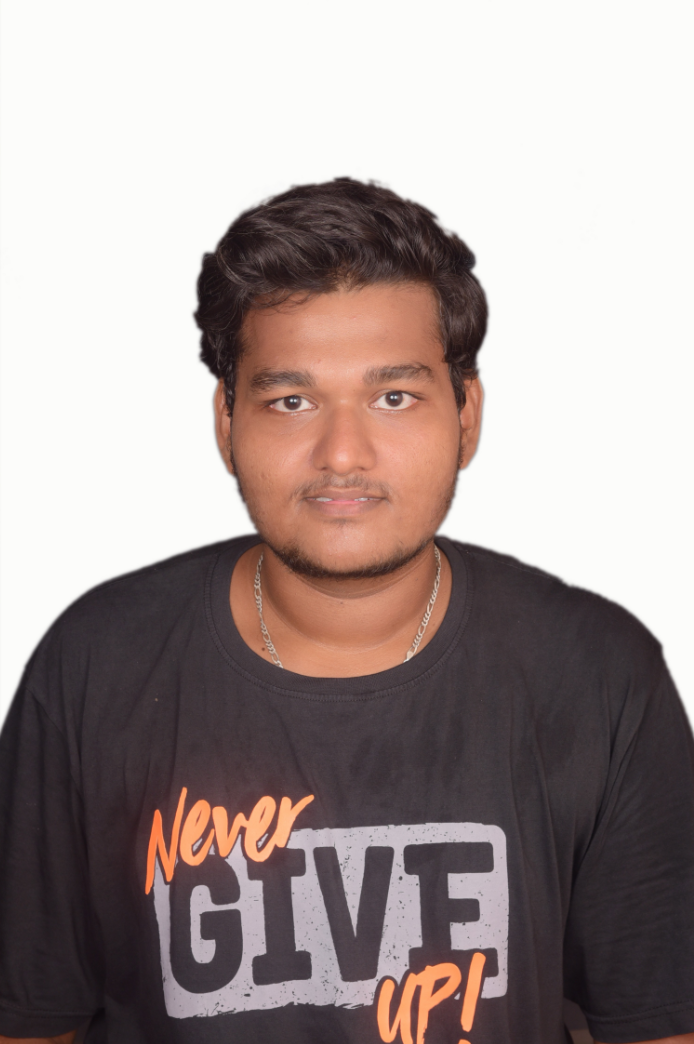
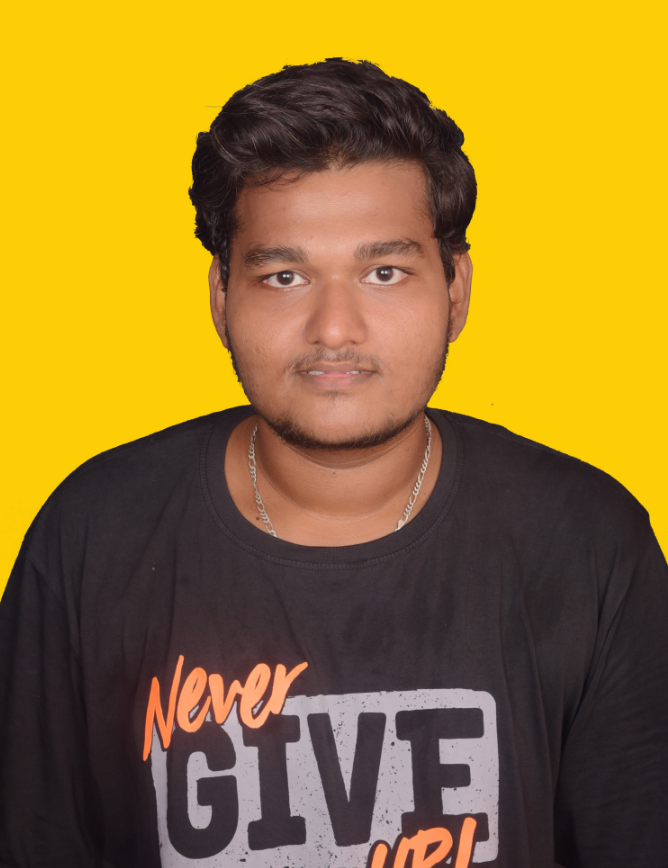
done with intro component

diff --git a/src/components/intro/Intro.css b/src/components/intro/Intro.css
@@ -1,0 +1,98 @@
+.i {
+  display: flex;
+  height: 100vh;
+}
+.i-right {
+  flex: 1;
+  position: relative;
+  display: flex;
+  align-items: center;
+  justify-content: center;
+}
+.i-left {
+  flex: 1;
+  display: flex;
+  align-items: center;
+  justify-content: center;
+}
+.i-left-wrapper {
+  padding: 3rem;
+  height: 50%;
+  display: flex;
+  flex-direction: column;
+  justify-content: space-between;
+}
+.i-name {
+  font-size: 4rem;
+}
+.i-intro {
+  font-size: 2rem;
+  font-weight: 300;
+}
+.i-title-wrapper {
+  height: 100%;
+  animation: move 10s ease-in-out infinite alternate;
+}
+@keyframes move {
+  33% {
+    transform: translateY(-50px);
+  }
+  66% {
+    transform: translateY(-100px);
+  }
+  100% {
+    transform: translateY(-150px);
+  }
+}
+.i-title {
+  height: 3rem;
+  overflow: hidden;
+}
+.i-title-item {
+  height: 3rem;
+  font-size: 2.2rem;
+  font-weight: 900;
+  color: #ffca28;
+  display: flex;
+  align-items: center;
+}
+.i-img {
+  width: 60%;
+  height: 70%;
+  border-radius: 50%;
+  object-fit: fill;
+  position: absolute;
+}
+.i-bg {
+  width: 100%;
+  height: 100%;
+  clip-path: polygon(100% 0%, 100% 50%, 100% 100%, 50% 100%, 0% 50%, 56% 0);
+  background-color: #fdce06;
+}
+.scroll {
+  position: absolute;
+  left: 1rem;
+  bottom: 0;
+  animation: MoveUpDown 1s linear infinite;
+}
+.scroll p {
+  width: max-content;
+  position: absolute;
+  left: -2.4rem;
+  bottom: 3.5rem;
+  transform: rotate(90deg);
+}
+@keyframes MoveUpDown {
+  0%,
+  100% {
+    bottom: 0;
+  }
+
+  50% {
+    bottom: 20px;
+  }
+}
+.i-description {
+  font-size: 1rem;
+  color: grey;
+}

diff --git a/src/components/intro/Intro.jsx b/src/components/intro/Intro.jsx
@@ -1,0 +1,41 @@
+import React from "react";
+import ME from "../../img/me.png";
+import "./Intro.css";
+
+const Intro = () => {
+  return (
+    <div className="i">
+      <div className="i-left">
+        <div className="i-left-wrapper">
+          <h2 className="i-intro">Hello, my name is</h2>
+          <h1 className="i-name">Vishal Suvarna</h1>
+          <div className="i-title">
+            <div className="i-title-wrapper">
+              <div className="i-title-item">Self Taught</div>
+              <div className="i-title-item">Web Developer</div>
+              <div className="i-title-item">FrontEnd Developer</div>
+              <div className="i-title-item">Geek Enthusiast</div>
+            </div>
+          </div>
+          <div className="i-description">
+            A hardworking and dedicated team player passionate about
+            implementing and launching new projects. Ability to translate
+            business requirements into technical solutions. Looking to start my
+            career as an entry-level Front-End Developer with a firm driven by
+            technology.
+          </div>
+        </div>
+        <div className="scroll">
+          <p>Scroll down</p>
+          <i class="fas fa-arrow-down"></i>
+        </div>
+      </div>
+      <div className="i-right">
+        <div className="i-bg"></div>
+        <img src={ME} className="i-img"></img>
+      </div>
+    </div>
+  );
+};
+
+export default Intro;

diff --git a/src/index.js b/src/index.js
@@ -1,17 +1,10 @@
-import React from 'react';
-import ReactDOM from 'react-dom/client';
-import './index.css';
-import App from './App';
-import reportWebVitals from './reportWebVitals';
+import React from "react";
+import ReactDOM from "react-dom/client";
+import App from "./App";
 
-const root = ReactDOM.createRoot(document.getElementById('root'));
+const root = ReactDOM.createRoot(document.getElementById("root"));
 root.render(
   <React.StrictMode>
     <App />
   </React.StrictMode>
 );
-
-// If you want to start measuring performance in your app, pass a function
-// to log results (for example: reportWebVitals(console.log))
-// or send to an analytics endpoint. Learn more: https://bit.ly/CRA-vitals
-reportWebVitals();

diff --git a/src/App.js b/src/App.js
@@ -1,23 +1,9 @@
-import logo from './logo.svg';
-import './App.css';
+import Intro from "./components/intro/Intro";
 
 function App() {
   return (
-    <div className="App">
-      <header className="App-header">
-        <img src={logo} className="App-logo" alt="logo" />
-        <p>
-          Edit <code>src/App.js</code> and save to reload.
-        </p>
-        <a
-          className="App-link"
-          href="https://reactjs.org"
-          target="_blank"
-          rel="noopener noreferrer"
-        >
-          Learn React
-        </a>
-      </header>
+    <div>
+      <Intro></Intro>
     </div>
   );
 }

diff --git a/public/index.html b/public/index.html
@@ -24,6 +24,12 @@
       work correctly both with client-side routing and a non-root public URL.
       Learn how to configure a non-root public URL by running `npm run build`.
     -->
+    <link href="https://fonts.googleapis.com/css2?family=Poppins:ital,wght@0,300;1,300&display=swap" rel="stylesheet">
+    <style>*{
+      margin: 0;
+      font-family: 'Poppins' ,'san-serif';
+    }</style>
+    <script src="https://kit.fontawesome.com/3974936aac.js" crossorigin="anonymous"></script> 
     <title>React App</title>
   </head>
   <body>
